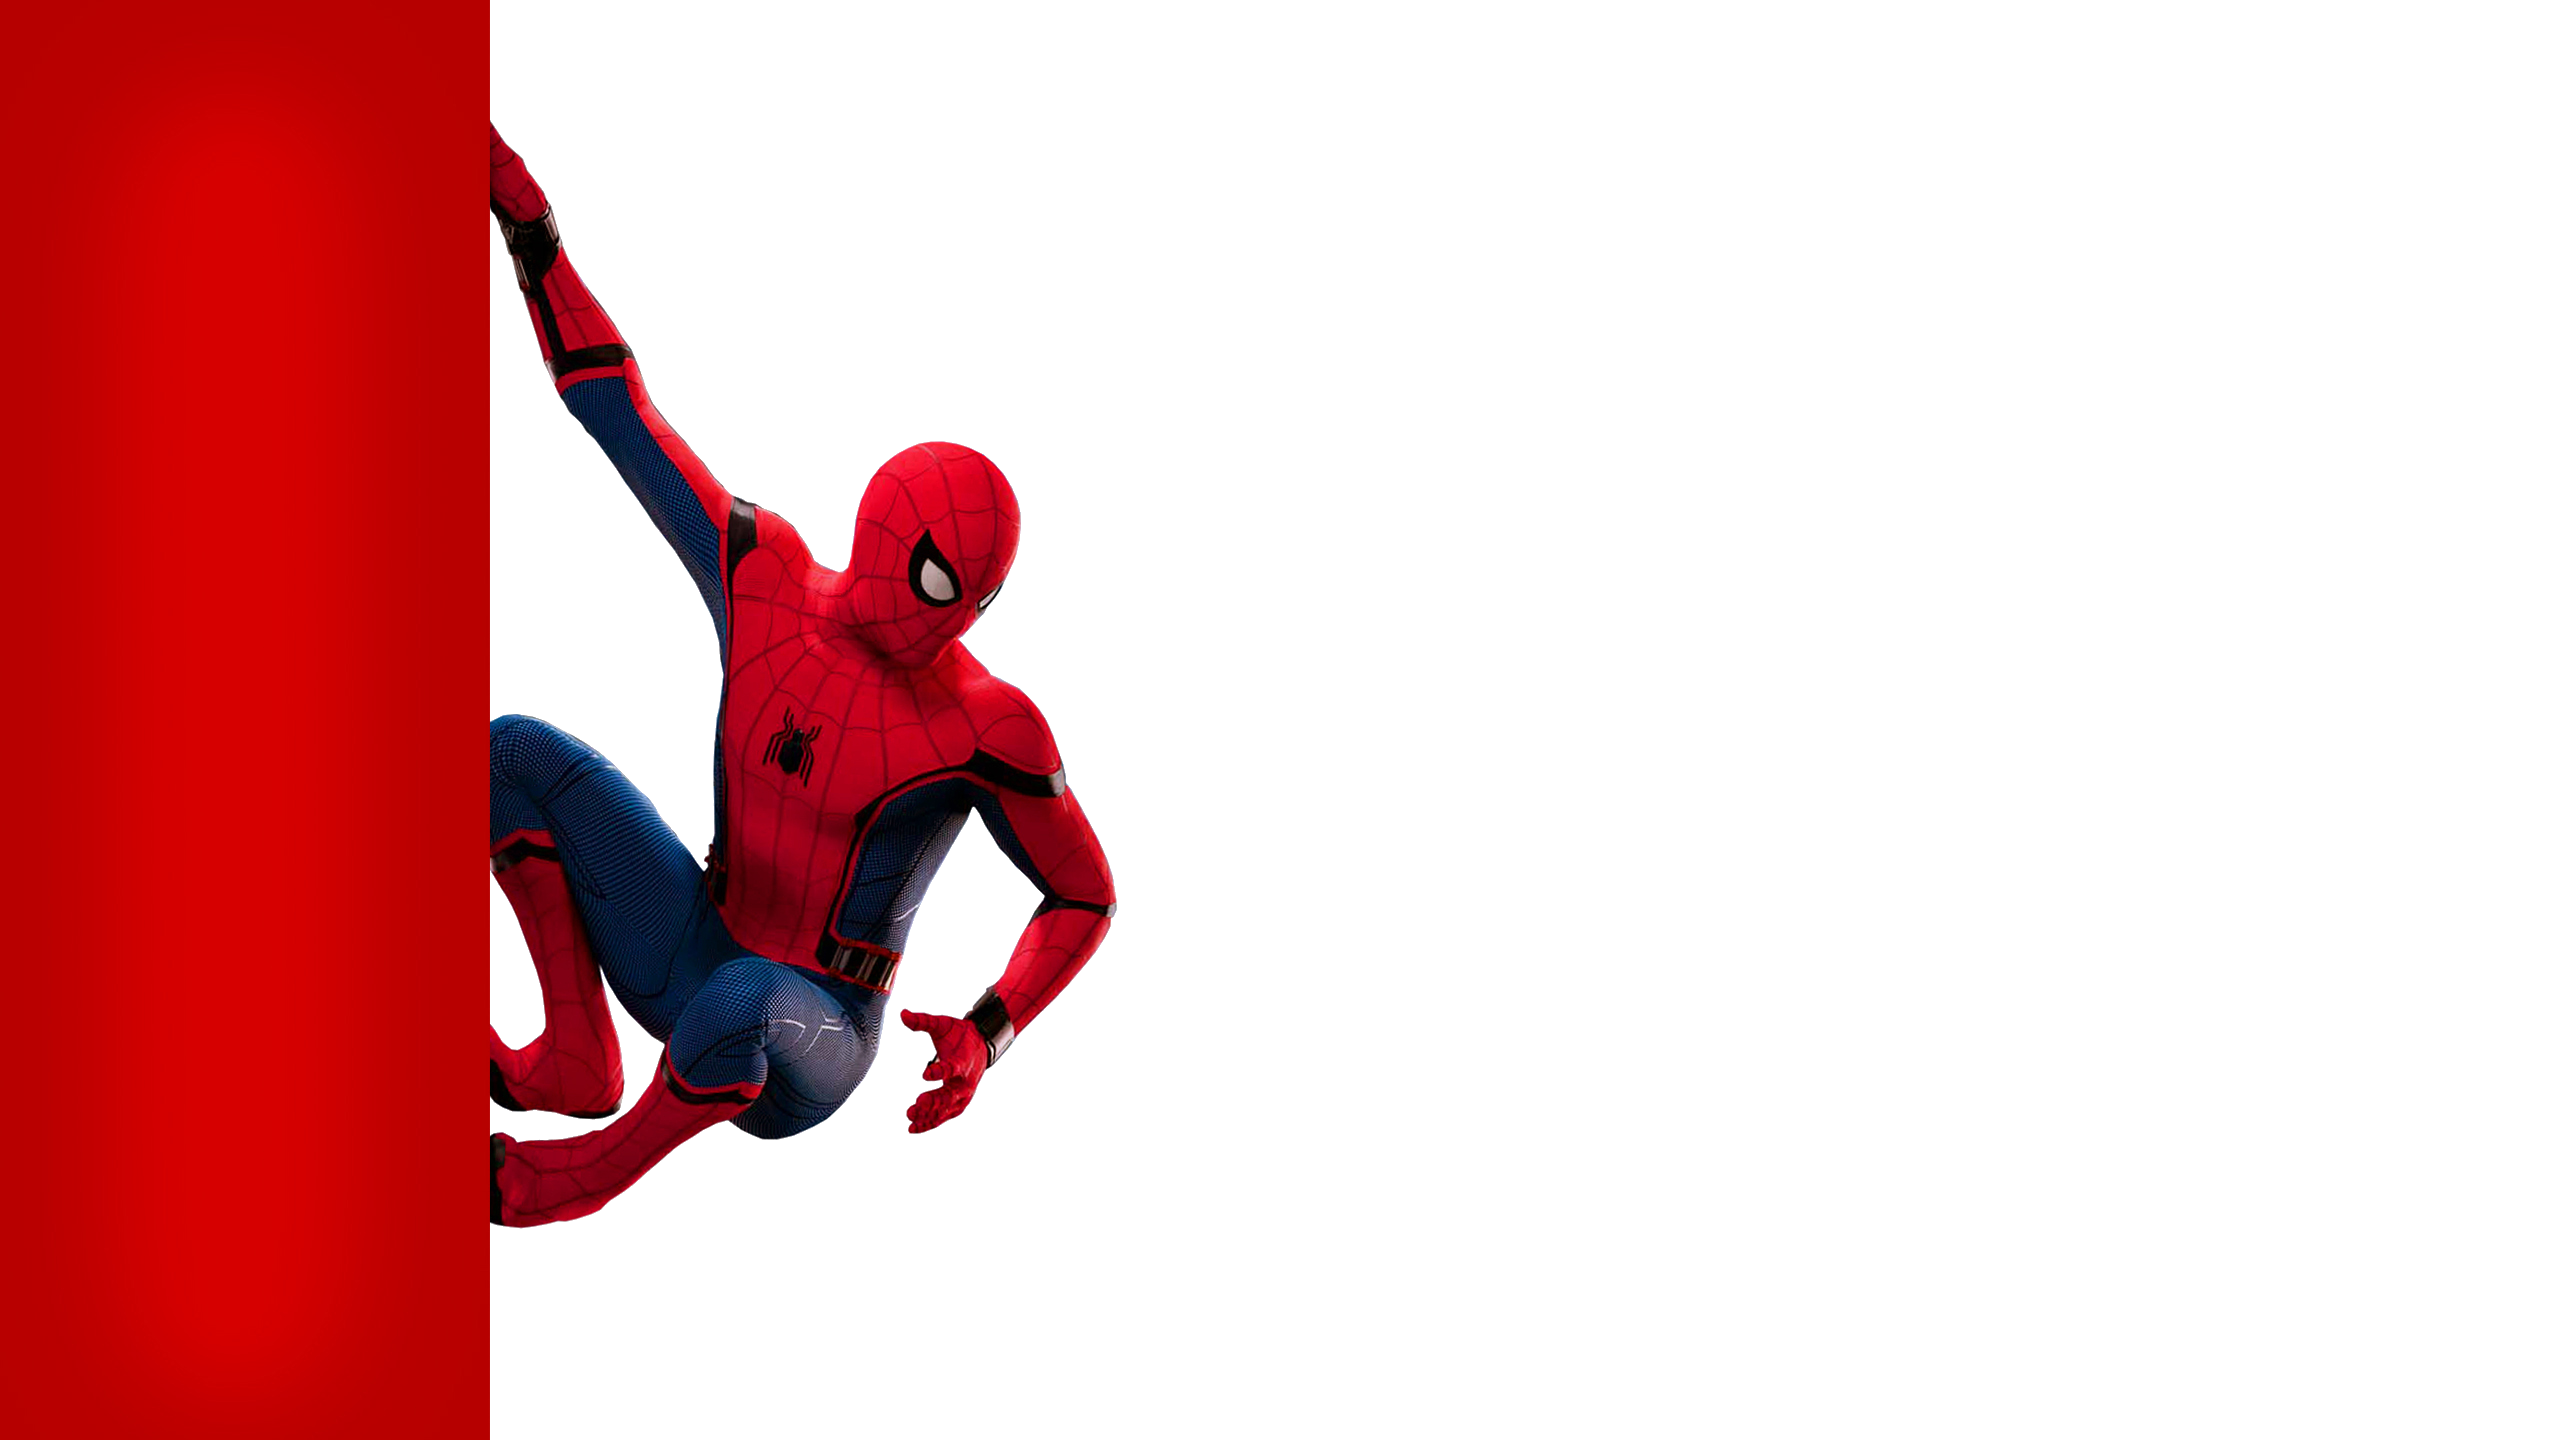
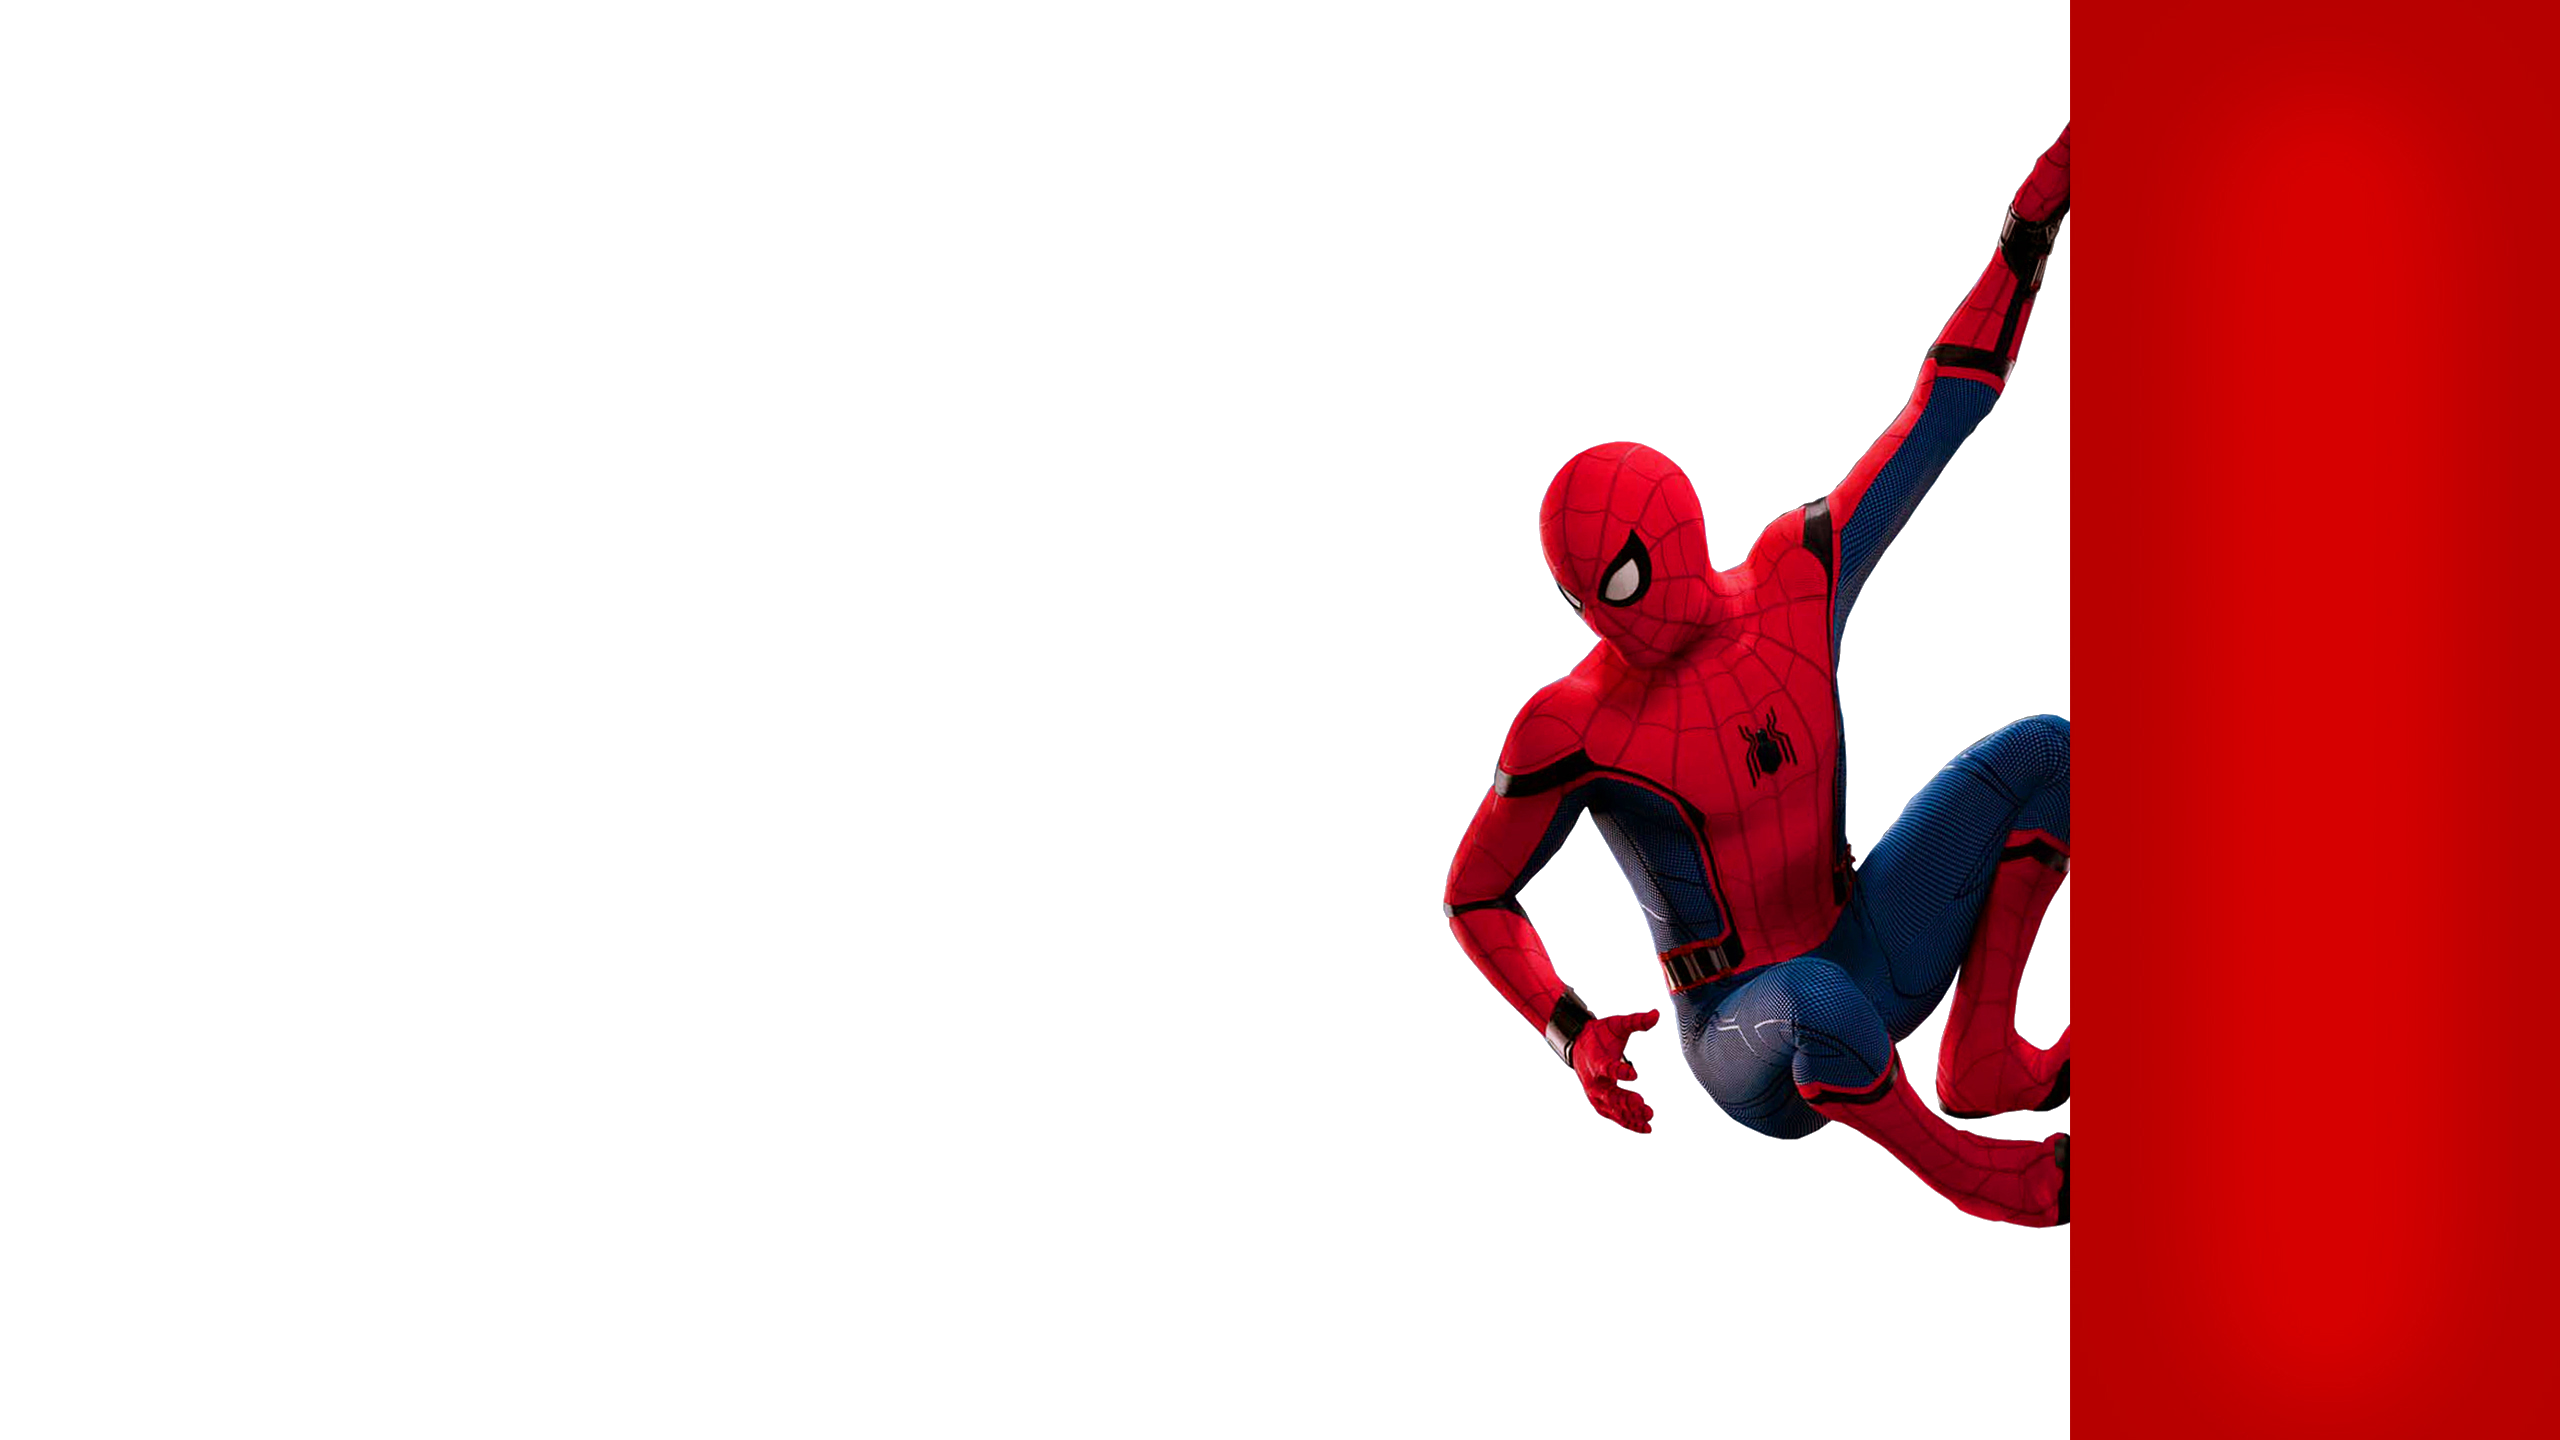
spiderman pic pos

diff --git a/charWebsite/spiderman.html b/charWebsite/spiderman.html
@@ -18,7 +18,7 @@
       <p>In his teens, Parker attended Midtown School of Science and Technology, where he quickly became best friends with his classmate Ned Leeds, and the target of bullying from Flash Thompson. Parker also became acquainted with Michelle Jones, who often teased him, and developed a crush on Liz Allan, a popular student. In late 2015, at the age of fourteen, Parker was bitten by a spider and acquired superhuman powers, including strength and speed proportional to that of a spider and an uncanny ability to adhere to walls. He also acquired a precognitive sense known as Spider-Sense, although it worked intermittently.</p>
     </div>
 
-   <div class="picture">   
+   <div class="picture" id="pos-right-picture">   
       <img src="images/spiderman2.png" alt="">
 
     </div>

diff --git a/charWebsite/style.css b/charWebsite/style.css
@@ -1,8 +1,12 @@
+* {
+  box-sizing: border-box;
+}
 body { 
   background: radial-gradient(circle, #002424 0%, #000F0F 100%);
   color: #68C7EC;  
   font-family: "Cantarell", sans-serif;
   overflow: hidden;
+  
   
 
 }
@@ -48,6 +52,8 @@ body {
 }
 #pos-right-picture {
   justify-self: right;
+  
+  
 }
 .picture img {
   width: 1.2fr;
